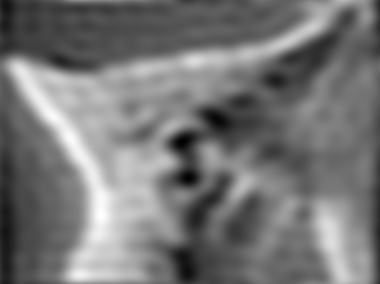
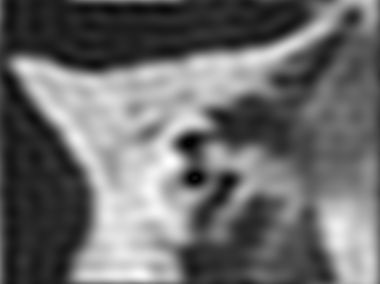
fix normalize problem

diff --git a/hw6-1_freq_filter_geo_tran/lib/cv_dft_2d.cpp b/hw6-1_freq_filter_geo_tran/lib/cv_dft_2d.cpp
@@ -93,6 +93,7 @@ CvIDft2d::CvIDft2d(const cv::Mat &re, const cv::Mat &im)
 {
   cv::Mat planes[] = {re, im};
   cv::merge(planes, 2, complex_);
+  // inv_img_ = complex_.clone();
 }
 
 CvIDft2d::CvIDft2d(const cv::Mat &complex)
@@ -103,13 +104,16 @@ CvIDft2d::CvIDft2d(const cv::Mat &complex)
 
 void CvIDft2d::computeIDft()
 {
-  cv::idft(complex_, inv_img_, cv::DFT_INVERSE|cv::DFT_REAL_OUTPUT);
+  cv::idft(complex_, inv_img_, cv::DFT_INVERSE | cv::DFT_COMPLEX_OUTPUT);
 }
 
 cv::Mat CvIDft2d::getInvImg()
 {
-  cv::Mat img_out(inv_img_.size(), CV_8UC1);
-  cv::normalize(inv_img_, img_out, 0, 255, CV_MINMAX, CV_8UC1);
+  std::vector<cv::Mat> planes(2);
+  cv::split(inv_img_, planes);
+  cv::Mat img_out(inv_img_.size(), CV_32FC1);
+  cv::magnitude(planes[0], planes[1], img_out);
+  cv::normalize(img_out, img_out, 0, 255, CV_MINMAX, CV_8UC1);
   return img_out;
 }
 
